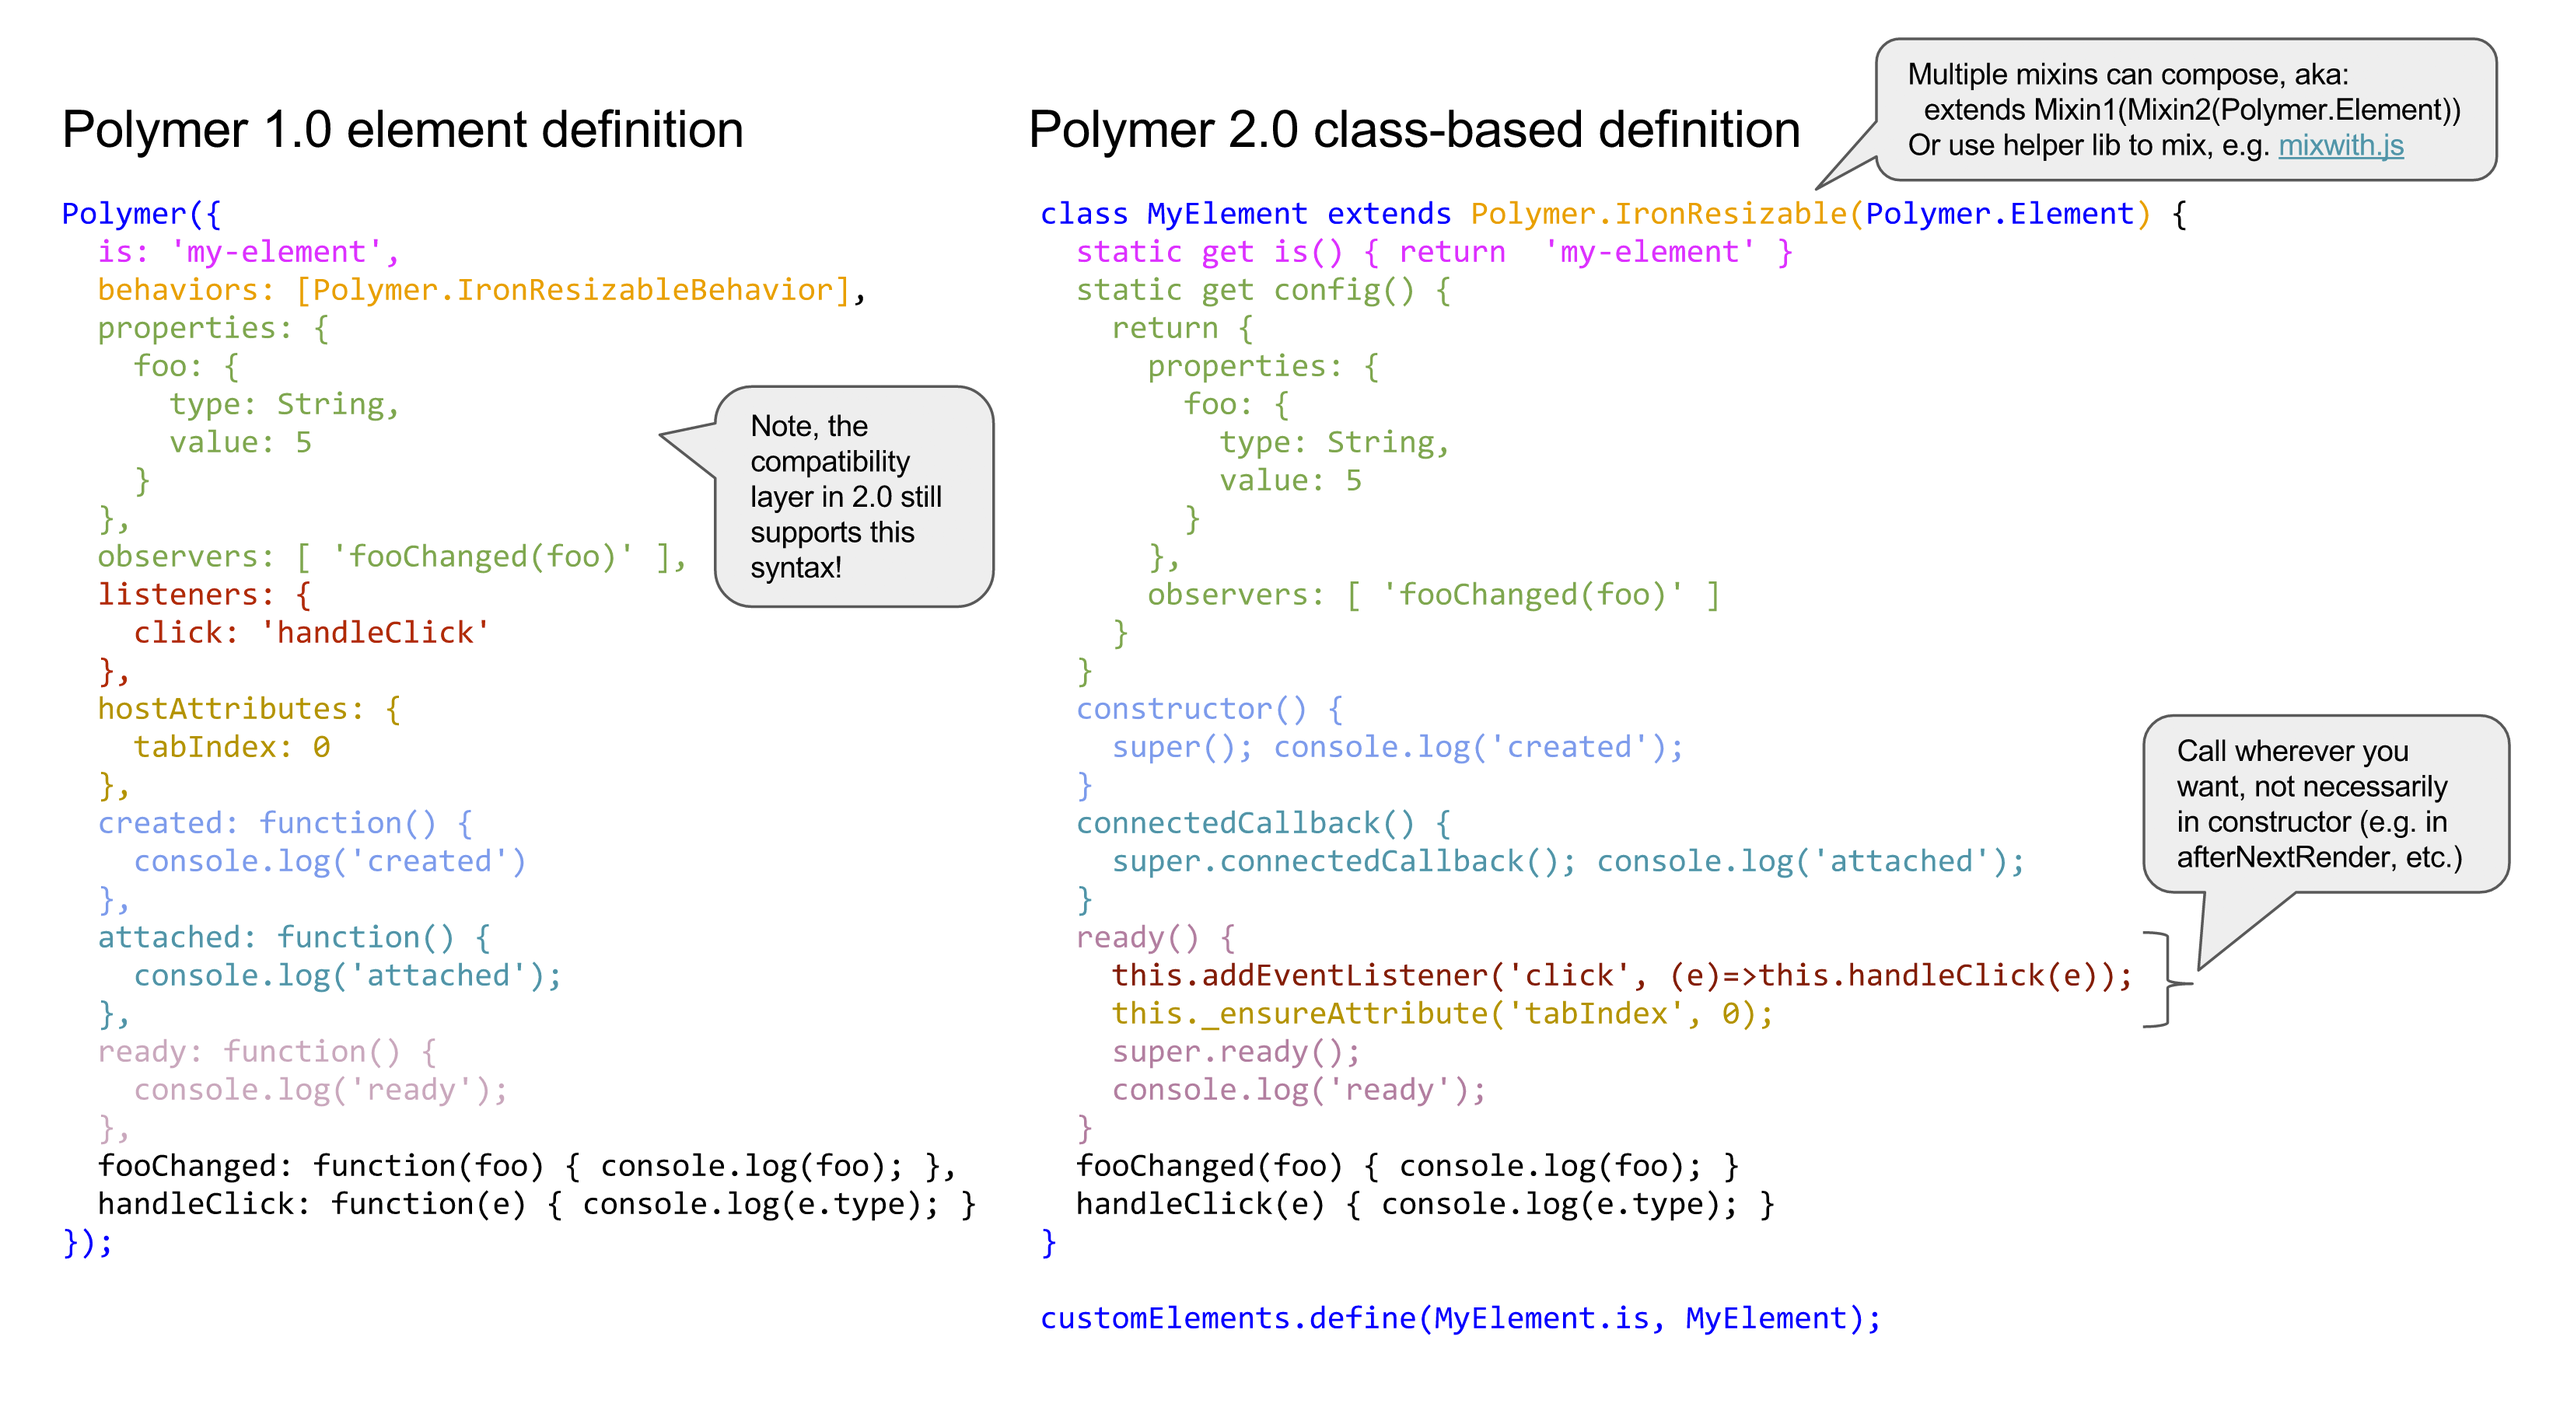
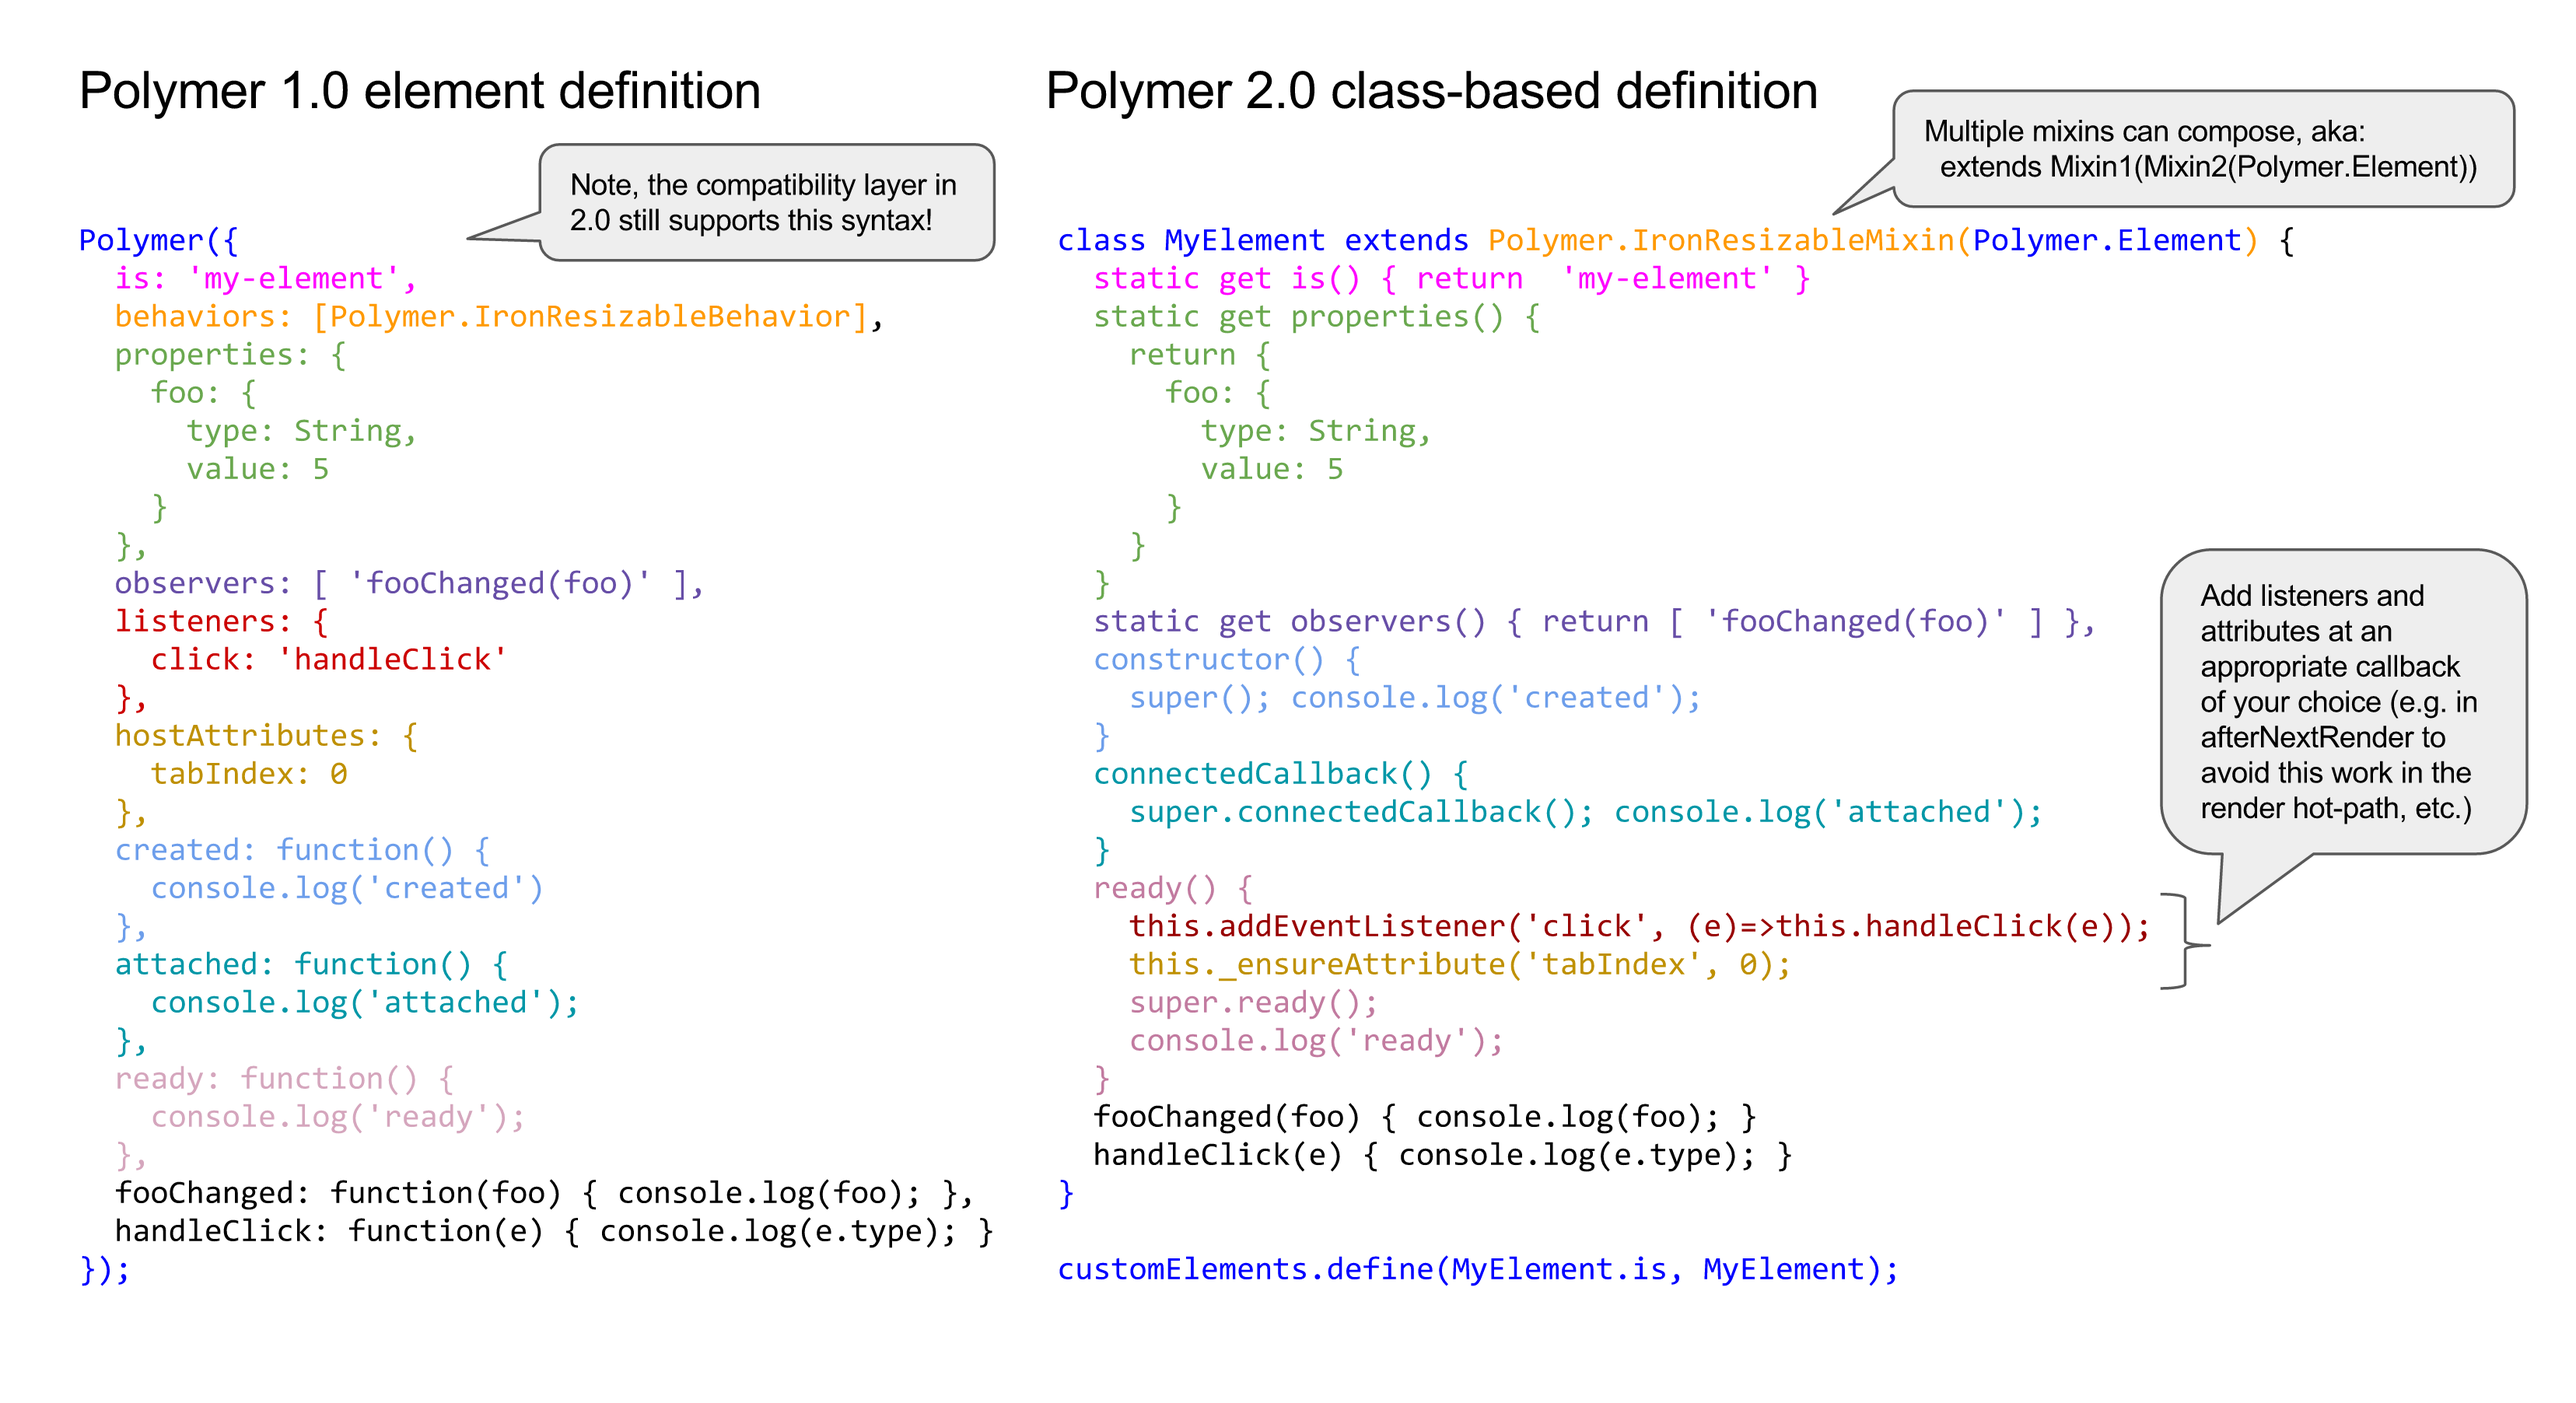
Update readme. config-->properties & observers. Describe template getting options.

diff --git a/README.md b/README.md
@@ -87,9 +87,8 @@ Basic syntax looks like this:
 // Extend Polymer.Element base class
 class MyElement extends Polymer.Element {
   static get is() { return 'my-element'; }
-  static get config() {
-   return { /* properties, observers meta data */ }
-  }
+  static get properties() { return { /* properties metadata */ } }
+  static get observers() { return [ /* observer descriptors */ ] }
   constructor() {
     super();
     ...
@@ -111,7 +110,8 @@ Users can then leverage native subclassing support provided by ES6 to extend and
 // Subclass existing element
 class MyElementSubclass extends MyElement {
   static get is() { return 'my-element-subclass'; }
-  static get config() { ... }
+  static get properties() { return { /* properties metadata */ } }
+  static get observers() { return [ /* observer descriptors */ ] }
   constructor() {
     super();
     ...
@@ -125,12 +125,11 @@ customElements.define(MyElementSubclass.is, MyElementSubclass);
 
 Below are the general steps for defining a custom element using this new syntax:
 
-* Extend from `Polymer.Element`. This class provides the minimal surface area to integrate with 2.0's data binding system. It provides only standard custom element lifecycle with the addition of `ready`. (You can extend from `Polymer.LegacyElement` to get all of the Polymer 1.0 element api, but since most of this api was rarely used, this should not often be needed.)
-* Implement "behaviors" as [mixins that return class expressions](http://justinfagnani.com/2015/12/21/real-mixins-with-javascript-classes/)
-* Property metadata (`properties`) and multi-property/wildcard observers (`observers`) should be put on the class as a static in a property called `config`
-* Element's `is` property should be defined as a static on the class
-* Implement a static `template` getter to provide a template to stamp inside the element. By default the first `<template>` found in a `<dom-module>` with an `id` matching the element's `is` property is used.
-* `listeners` and `hostAttributes` have been removed from element metadata; they can be installed how and when needed but for convenience `ensureAttribute` is available.
+* Extend from `Polymer.Element`. This class provides the minimal surface area to integrate with 2.0's data binding system. It provides only standard custom element lifecycle with the addition of `ready`. (You can apply the `Polymer.LegacyElementMixin` to get all of the Polymer 1.0 element API, but since most of this API was rarely used, this should not often be needed.)
+* Implement "behaviors" as [mixins that return class expressions](http://justinfagnani.com/2015/12/21/real-mixins-with-javascript-classes/) and apply to the base class you are extending from.
+* Property metadata (`properties`) and multi-property/wildcard observers (`observers`) should be put on the class as static getters, but otherwise match the 1.x syntax.
+* In order to provide a template to stamp into the element's shadow DOM, either define a static `is` getter that returns the id of a `dom-module` containing the element's template, or else provide a static `template` getter that returns a template to stamp.  The `template` getter may either return an HTMLTemplateElement or a string containing HTML which will be parsed into a template.
+* `listeners` and `hostAttributes` have been removed from element metadata; listeners and attributes should be installed using standard platform API (`this.addEventListener`, `this.setAttribute`) how and when needed (e.g. in `connectedCallback`).  For convenience `_ensureAttribute` is available that sets an attribute if and only if the element does not yet have that attribute, to match `hostAttribute` semantics.
 
 Note that `Polymer.Element` provides a cleaner base class void of a lot of sugared utility API that present on elements defined with `Polymer()`, such as `fire`, `transform`, etc.  With web platform surface area becoming far more stable across browsers, we intend to hew towards sugaring less and embracing the raw platform API more.  So when using `Polymer.Element`, instead of using the legacy `this.fire('some-event')` API, simply use the equivalent platform API's such as `this.dispatchEvent(new CustomEvent('some-event'), {bubbles: true})`.  #usetheplatform
 
@@ -142,7 +141,7 @@ See below for a visual guide on migrating Polymer 1.0's declarative syntax to th
 
 ## Polyfills
 
-Polymer 2.0 has been developed alongside and tested with a new suite of V1-spec compatible polyfills for Custom Elements and Shadow DOM.   Polymer 2.0 can currently be tested by loading the `v1` branch of [`webcomponentsjs/webcomponents-lite.js`](https://github.com/webcomponents/webcomponentsjs/tree/v1), which is included as a bower dependency to Polymer 2.x and loads all necessary polyfills.  The polyfills are still under active development and are not fully ready for use in other browsers or for production.
+Polymer 2.0 has been developed alongside and tested with a new suite of V1-spec compatible polyfills for Custom Elements and Shadow DOM.   Polymer 2.0 can currently be tested by loading the `v1` branch of [`webcomponentsjs/webcomponents-lite.js`](https://github.com/webcomponents/webcomponentsjs/tree/v1), which is included as a bower dependency to Polymer 2.x and loads all necessary polyfills.
 
 ## Breaking Changes
 Below is a list of intentional breaking changes made in Polymer 2.0, along with their rationale/justification and migration guidance.  If you find changes that broke existing code not documented here, please [file an issue](https://github.com/Polymer/polymer/issues/new) and we'll investigate to determine whether they are expected/intentional or not.
